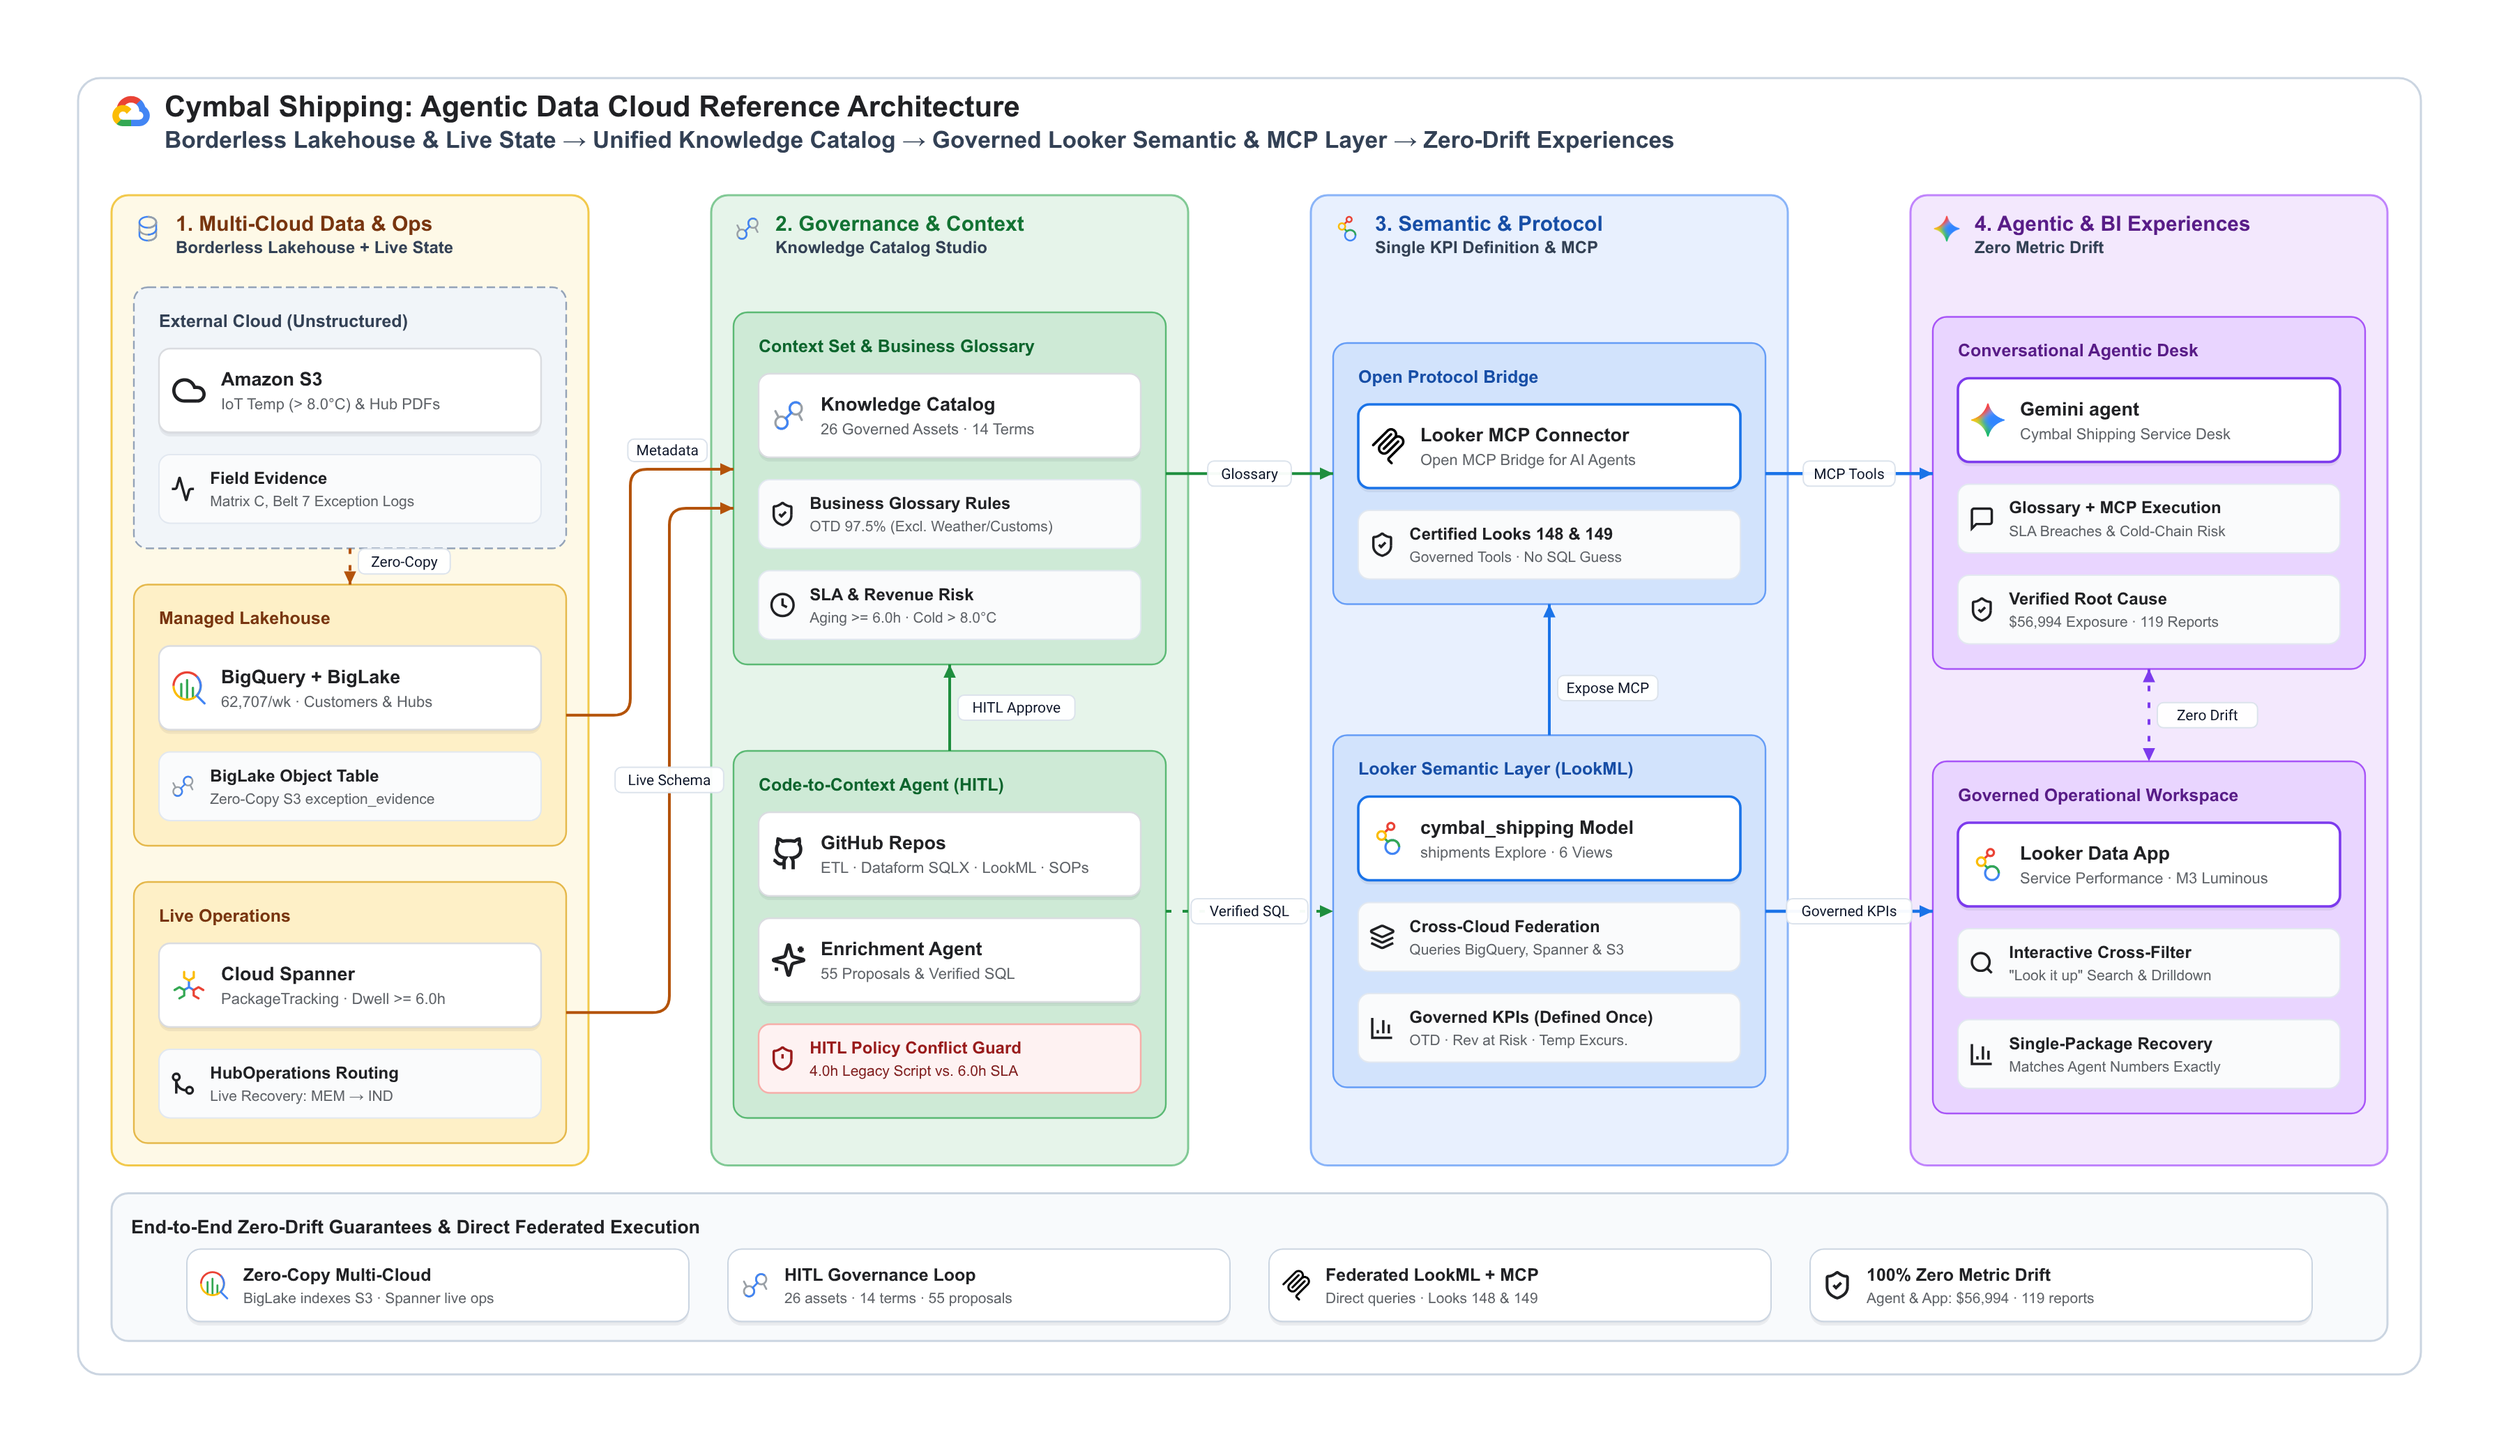
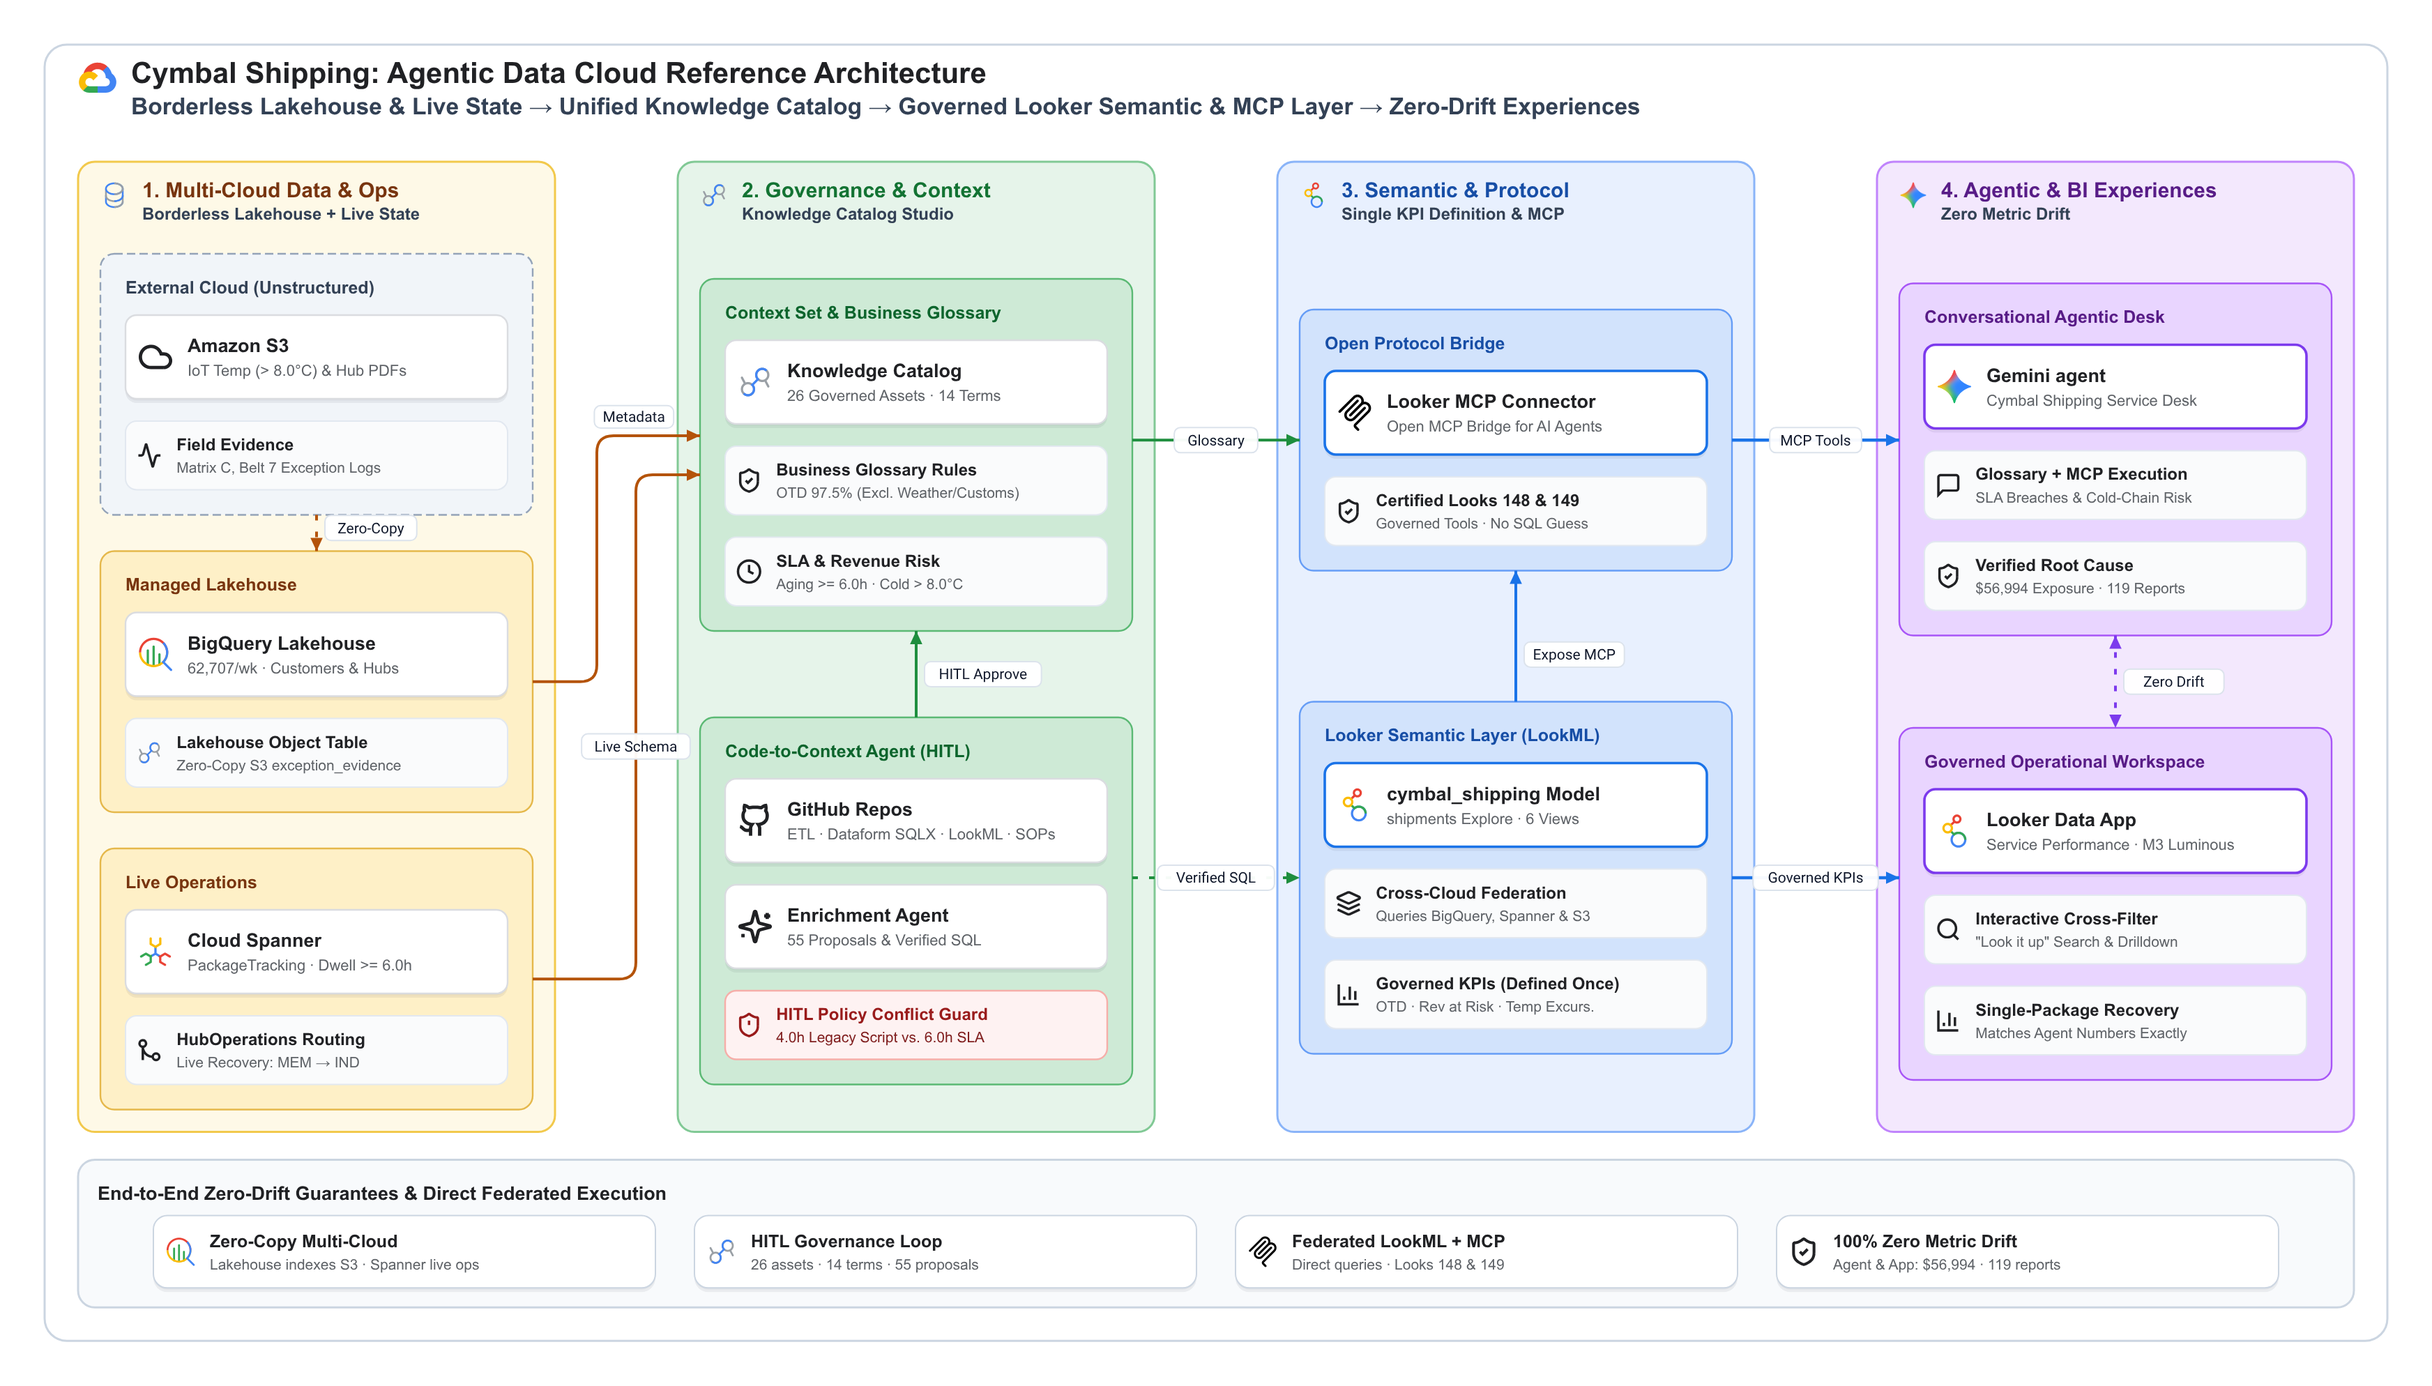
Rename BigLake references to Lakehouse across blueprint and architecture diagrams

Changed region(s): [[0.0312, 0.0312, 0.9688, 0.9356], [0.75, 0.1247, 0.9062, 0.1871]]

diff --git a/docs/BLUEPRINT.md b/docs/BLUEPRINT.md
@@ -14,7 +14,7 @@ That single operational crisis forces every layer of the data stack to answer th
 
 | The Old Way (Legacy Compromise) | The New Way (Agentic Data Cloud) |
 | :--- | :--- |
-| Fragmented database zoo separating operational "now" from analytical "then" | Unified multi-cloud federation across Amazon S3, BigQuery BigLake, and Cloud Spanner |
+| Fragmented database zoo separating operational "now" from analytical "then" | Unified multi-cloud federation across Amazon S3, BigQuery Lakehouse, and Cloud Spanner |
 | Business logic trapped in tribal wikis and conflicting GitHub scripts | Knowledge Catalog Enrichment Agent crawls code and flags conflicts for human review |
 | Unconstrained text-to-SQL agents inventing their own metric math | Gemini agent reads governed glossary terms and executes LookML measures via Looker MCP |
 | Chatbots and BI dashboards contradicting each other in executive meetings | One semantic contract powering both conversational AI and the Looker Data App with zero drift |
@@ -25,9 +25,9 @@ Every component in this demo maps to four decoupled layers: multi-cloud data and
 
 ![Cymbal Shipping Agentic Data Cloud reference architecture](../diagrams/cymbal_shipping_architecture.png)
 
-*Four-layer Agentic Data Cloud blueprint connecting Amazon S3 field evidence, BigQuery BigLake, Cloud Spanner live tracking, Knowledge Catalog governance, Looker LookML over MCP, the Gemini agent, and the Looker Data App.*
+*Four-layer Agentic Data Cloud blueprint connecting Amazon S3 field evidence, BigQuery Lakehouse, Cloud Spanner live tracking, Knowledge Catalog governance, Looker LookML over MCP, the Gemini agent, and the Looker Data App.*
 
-- **Layer 1 (Multi-cloud data and live operations):** Amazon S3 stores unstructured cold-chain temperature logs and hub exception notes. BigQuery BigLake indexes those files with zero data copies alongside 883,919 historical shipments, while Cloud Spanner tracks 55,922 live undelivered packages and hub recovery lanes.
+- **Layer 1 (Multi-cloud data and live operations):** Amazon S3 stores unstructured cold-chain temperature logs and hub exception notes. BigQuery Lakehouse indexes those files with zero data copies alongside 883,919 historical shipments, while Cloud Spanner tracks 55,922 live undelivered packages and hub recovery lanes.
 - **Layer 2 (Unified governance and context):** Knowledge Catalog binds 26 cross-cloud assets and 14 business glossary terms into one Context Set. Its Enrichment Agent crawls engineering GitHub repos, extracts 55 governed proposals, and catches a hidden four-hour legacy script conflict in Human-in-the-Loop review.
 - **Layer 3 (Governed semantics and open protocol):** A single LookML model (cymbal_shipping) defines all 22 operational and financial KPIs once across BigQuery, Spanner, and S3. The Looker MCP connector exposes those governed measures and certified Looks directly to AI agents.
 - **Layer 4 (Zero-drift experiences):** Both the Gemini agent (Cymbal Shipping Service Desk) and the Looker Data App (Service Performance) run against the exact same semantic layer. Ask either surface about Strategic healthcare exposure in Memphis, and both return Meridian Pharma at $27,888 down to the exact dollar.
@@ -40,7 +40,7 @@ Three realistic incidents sit inside the data to test whether the semantic layer
 
 ### BigQuery analytical lakehouse (cymbal_shipping)
 
-Six native BigQuery tables and one BigLake external object table form the analytical core in region us-east1. Every table is seeded idempotently by the scripts in folder 01_data of the GitHub repository.
+Six native BigQuery tables and one Lakehouse external object table form the analytical core in region us-east1. Every table is seeded idempotently by the scripts in folder 01_data of the GitHub repository.
 
 | Table or object | Partitioning and clustering | Verified rows | Role in the demo |
 | :--- | :--- | ---: | :--- |
@@ -50,7 +50,7 @@ Six native BigQuery tables and one BigLake external object table form the analyt
 | shipments | Partition: ship_date; Cluster: routing_hub_code, customer_id, service_code | 883,919 | Package-level system of analysis: pickup, commit deadline, delay category, and billed revenue |
 | live_package_tracking | Cluster: current_hub_code, package_status | 55,922 | Analytical replica of active undelivered packages, hub dwell hours, aging flag, and recovery plan |
 | exception_evidence | None (14 columns) | 863 | Extracted structured facts and full text from unstructured field reports, including 65 temp excursions |
-| field_evidence_objects | BigLake External Object Table | 863 files (614 KB) | Zero-copy object table indexing the lakehouse landing copy of Amazon S3 field evidence documents |
+| field_evidence_objects | Lakehouse External Object Table | 863 files (614 KB) | Zero-copy object table indexing the lakehouse landing copy of Amazon S3 field evidence documents |
 
 The shipments table carries 23 columns including tracking_number (12-digit unique key), is_cold_chain (Healthcare 2–8°C shipments on PO, SO, or IP), exception_reason, exception_category (Controllable vs. Uncontrollable), service_outcome, and is_guarantee_refund_eligible. Because those flags are computed deterministically, every downstream chart and agent query resolves cleanly without fragile client-side SQL.
 
@@ -82,7 +82,7 @@ CREATE PROPERTY GRAPH ShippingNetwork
 
 ### Borderless lakehouse unstructured field evidence (Amazon S3)
 
-Field evidence—IoT temperature logger files, hub delay notices, damage reports, and customs holds—originates in Amazon S3 under s3://cymbal-shipping-field-evidence/ across three prefixes: hub-delay-notices, cold-chain-temperature-logs, and driver-and-customs-reports. BigQuery BigLake indexes all 863 files (614,678 bytes) through the external object table field_evidence_objects, while exception_evidence exposes extracted root causes (such as Sort line outage Matrix C, Belt 7) and peak sensor readings (max_temperature_c and minutes_out_of_range) for SQL and LookML joins.
+Field evidence—IoT temperature logger files, hub delay notices, damage reports, and customs holds—originates in Amazon S3 under s3://cymbal-shipping-field-evidence/ across three prefixes: hub-delay-notices, cold-chain-temperature-logs, and driver-and-customs-reports. BigQuery Lakehouse indexes all 863 files (614,678 bytes) through the external object table field_evidence_objects, while exception_evidence exposes extracted root causes (such as Sort line outage Matrix C, Belt 7) and peak sensor readings (max_temperature_c and minutes_out_of_range) for SQL and LookML joins.
 
 ## Knowledge Catalog setup and code-to-context enrichment
 
@@ -161,7 +161,7 @@ git clone https://github.com/szinsmeister-google/cymbal-shipping-demo
 cd cymbal-shipping-demo
 cp .env.example .env && source .env
 
-# 1. Seed BigQuery, Spanner Property Graph, and BigLake S3 objects
+# 1. Seed BigQuery, Spanner Property Graph, and Lakehouse S3 objects
 python3 01_data/01_seed_bigquery.py
 python3 01_data/02_tracking_and_evidence.py
 python3 01_data/03_spanner_and_lake.py
